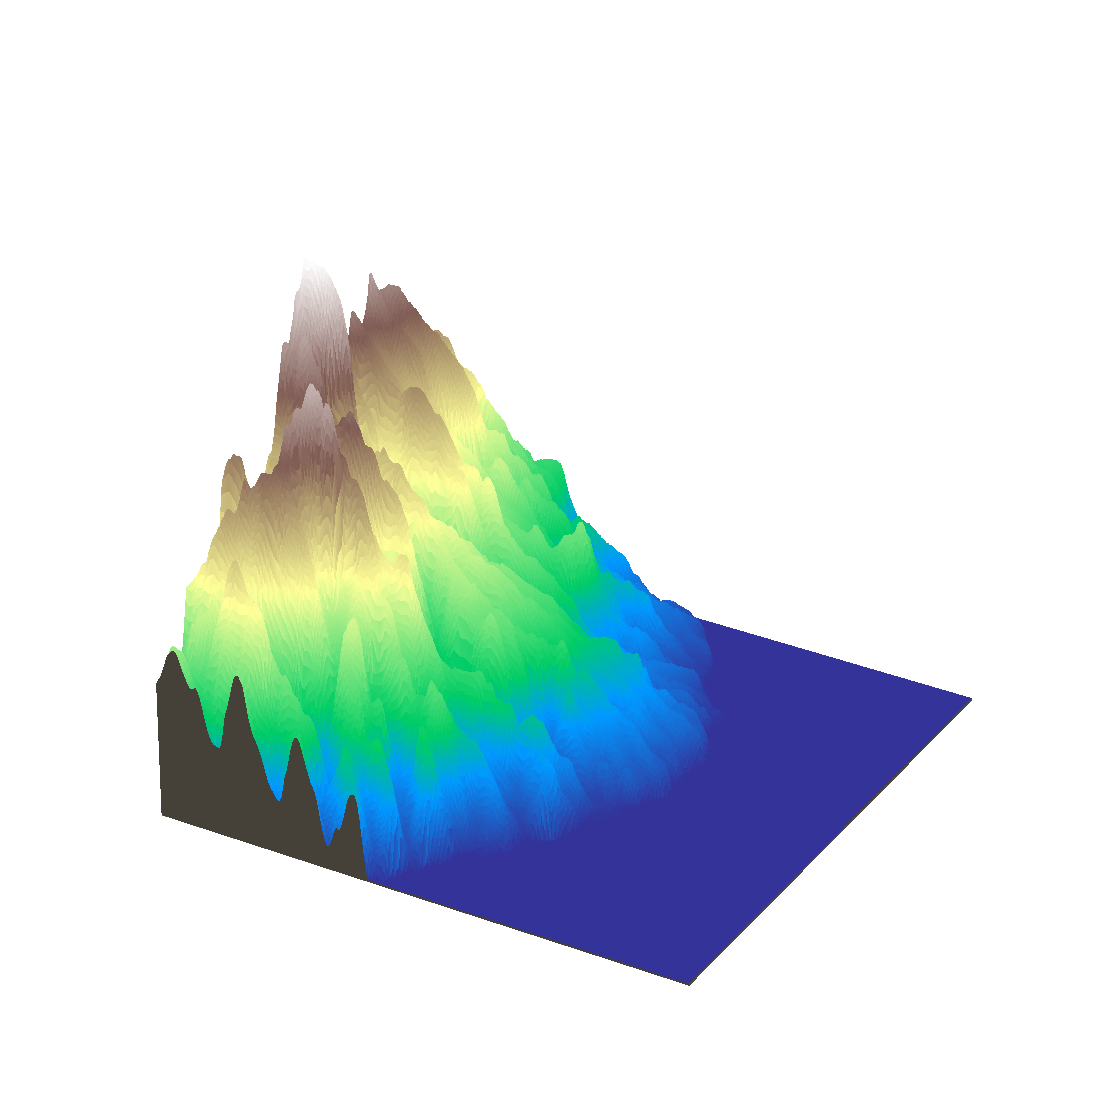
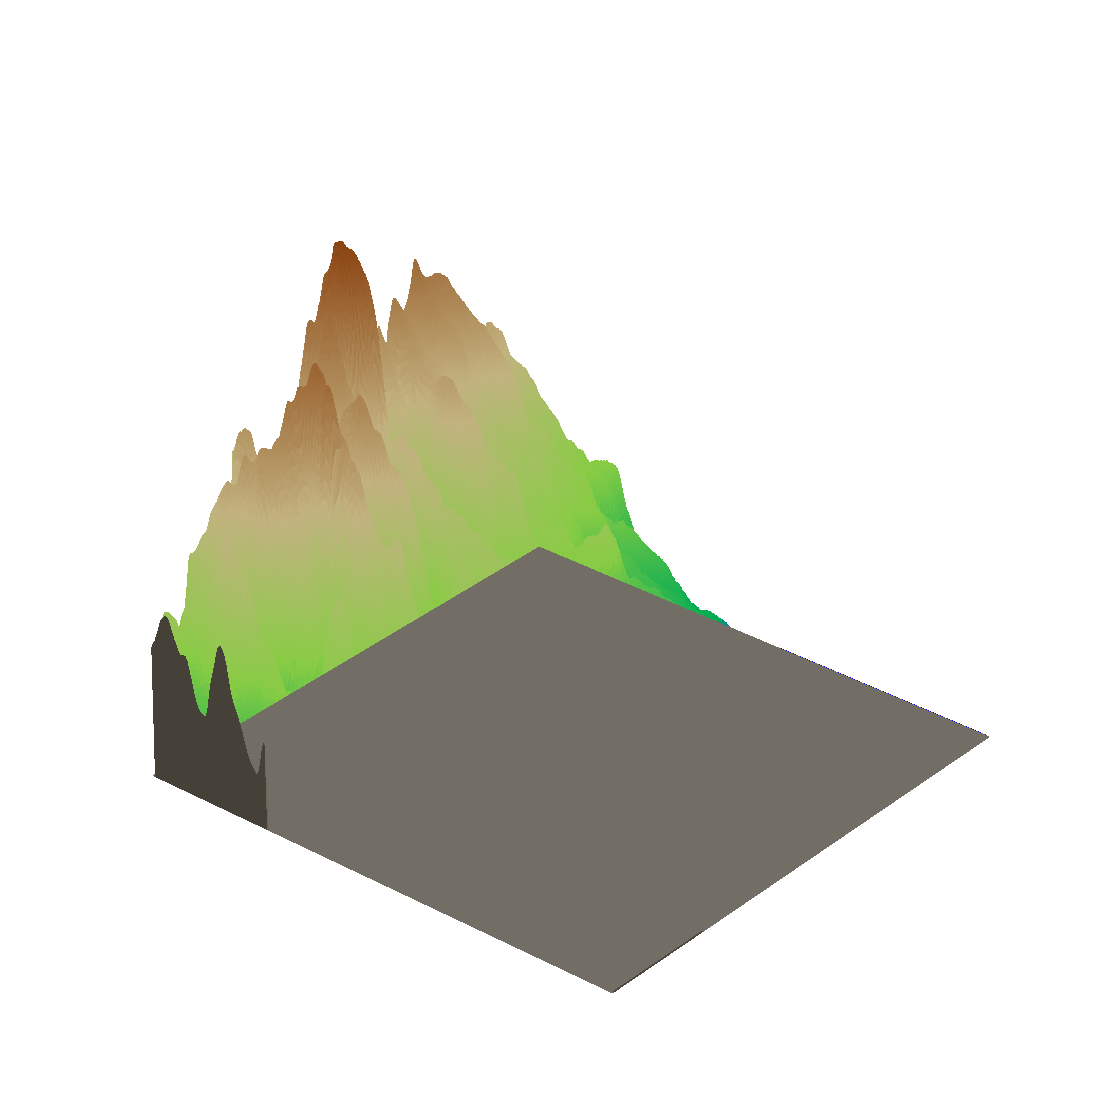
Changement cmap

Changed region(s): [[0.1216, 0.2129, 0.8819, 0.8819]]

diff --git a/src/utils/diagramme.py b/src/utils/diagramme.py
@@ -184,6 +184,20 @@ def create_block_diagram(
     fig = plt.figure(figsize=figure_size)
     ax = fig.add_subplot(111, projection="3d")
 
+    from matplotlib.colors import LinearSegmentedColormap
+
+    cmap = LinearSegmentedColormap.from_list(
+        "custom_terrain",
+        [
+            (0.0, "#0000ff"),   # bleu (mer)
+            (0.02, "#0066cc"),  # bleu clair
+            (0.05, "#00aa55"),  # vert (bas relief)
+            (0.3, "#88cc44"),
+            (0.6, "#c2b280"),   # beige
+            (1.0, "#8b4513"),   # brun (hautes altitudes)
+        ],
+    )
+
     ax.plot_surface(
         xx,
         yy,

diff --git a/src/utils/test.py b/src/utils/test.py
@@ -6,4 +6,4 @@ dem_path = "data/raw/elevation/precheur.tif"
 
 #download_elevation(bbox=bbox_precheur, output_tif=dem_path)
 
-create_block_diagram(dem_path, "output.png", azimuth=120, vertical_exaggeration=1)
+create_block_diagram(dem_path, "output.png", azimuth=130, vertical_exaggeration=1)
